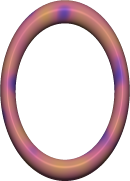
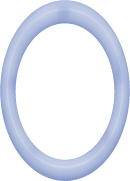
Cleaned up by Karl Ove Hufthammer - Yves found the bug. Now the scrollbar
* boards/read_colors/read_colors_background.png: Cleaned up by Karl Ove Hufthammer
	* boards/read_colors/read_colors_highlight.png: -
	* src/gcompris/file_selector.c: (display_files),
	(item_event_scroll): Yves found the bug. Now the scrollbar works as expected with the wheel
	* src/gcompris/images_selector.c: (gcompris_images_selector_start),
	(item_event_scroll): -

diff --git a/src/gcompris/images_selector.c b/src/gcompris/images_selector.c
@@ -1,6 +1,6 @@
 /* gcompris - images_selector.c
  *
- * Time-stamp: <2005/02/13 03:00:22 bruno>
+ * Time-stamp: <2005/02/24 21:42:27 bruno>
  *
  * Copyright (C) 2000 Bruno Coudoin
  *
@@ -187,6 +187,11 @@ void gcompris_images_selector_start (GcomprisBoard *gcomprisBoard, gchar *datase
   gtk_widget_show (w);
   gnome_canvas_set_center_scroll_region (GNOME_CANVAS (canvas_list_selector), FALSE);
 
+  /* Set the scrollwheel event */
+  gtk_signal_connect(GNOME_CANVAS(canvas_list_selector), "event",
+		     (GtkSignalFunc) item_event_scroll,
+		     GNOME_CANVAS(canvas_list_selector));
+
   /*
    * Create the image scrollbar
    * --------------------------
@@ -228,6 +233,10 @@ void gcompris_images_selector_start (GcomprisBoard *gcomprisBoard, gchar *datase
   gtk_widget_show (w);
   gnome_canvas_set_center_scroll_region (GNOME_CANVAS (canvas_image_selector), FALSE);
 
+  /* Set the scrollwheel event */
+  gtk_signal_connect(GNOME_CANVAS(canvas_image_selector), "event",
+		     (GtkSignalFunc) item_event_scroll,
+		     GNOME_CANVAS(canvas_image_selector));
 
   /*
    * OK Button
@@ -555,7 +564,6 @@ item_event_images_selector(GnomeCanvasItem *item, GdkEvent *event, gpointer data
 }
 
 /* Callback when a scroll event happens */
-/* FIXME This doesn't work. */
 static gint
 item_event_scroll(GnomeCanvasItem *item, GdkEvent *event, GnomeCanvas *canvas)
 {
@@ -574,6 +582,7 @@ item_event_scroll(GnomeCanvasItem *item, GdkEvent *event, GnomeCanvas *canvas)
 
       break;
     }
+  return FALSE;
 }
 
 /*

diff --git a/src/gcompris/file_selector.c b/src/gcompris/file_selector.c
@@ -1,6 +1,6 @@
 /* gcompris - file_selector.c
  *
- * Time-stamp: <2005/02/16 00:32:08 bruno>
+ * Time-stamp: <2005/02/24 21:41:00 bruno>
  *
  * Copyright (C) 2000 Bruno Coudoin
  *
@@ -499,11 +499,10 @@ static void display_files(GnomeCanvasItem *root_item, gchar *rootdir)
   gtk_widget_show (w);
   gnome_canvas_set_center_scroll_region (GNOME_CANVAS (canvas), FALSE);
 
-  /* FIXME: Doesn't work. the scroll is fine but the display is buggy
+  /* Set the scrollwheel event */
   gtk_signal_connect(GNOME_CANVAS(canvas), "event",
 		     (GtkSignalFunc) item_event_scroll,
 		     GNOME_CANVAS(canvas));
-  */
 
   /* Display the directory name
    * --------------------------
@@ -673,7 +672,6 @@ item_event_directory(GnomeCanvasItem *item, GdkEvent *event, gchar *dir)
 }
 
 /* Callback when a scroll event happens */
-/* FIXME This doesn't work. */
 static gint
 item_event_scroll(GnomeCanvasItem *item, GdkEvent *event, GnomeCanvas *canvas)
 {
@@ -692,6 +690,7 @@ item_event_scroll(GnomeCanvasItem *item, GdkEvent *event, GnomeCanvas *canvas)
 
       break;
     }
+  return FALSE;
 }
 
 /* Callback when a file is selected */
